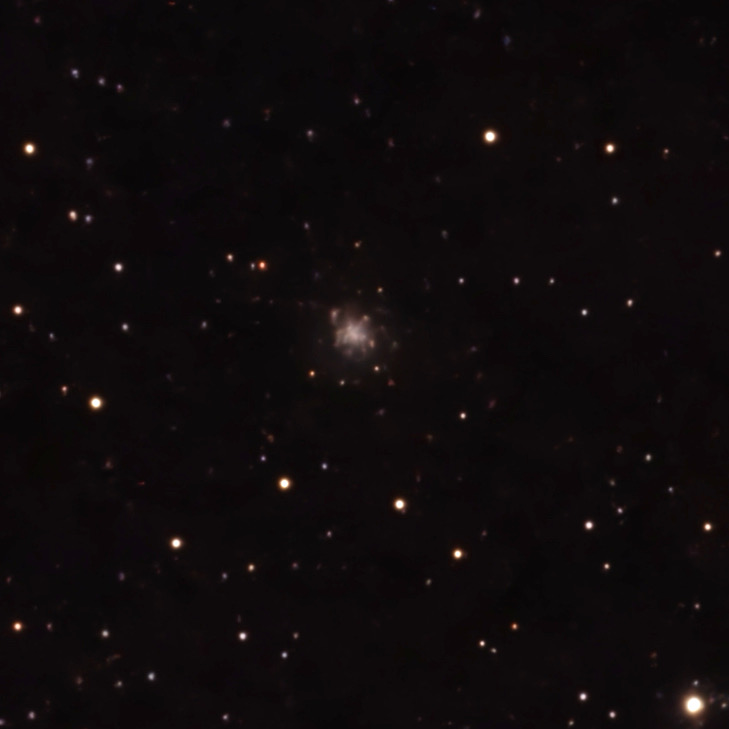
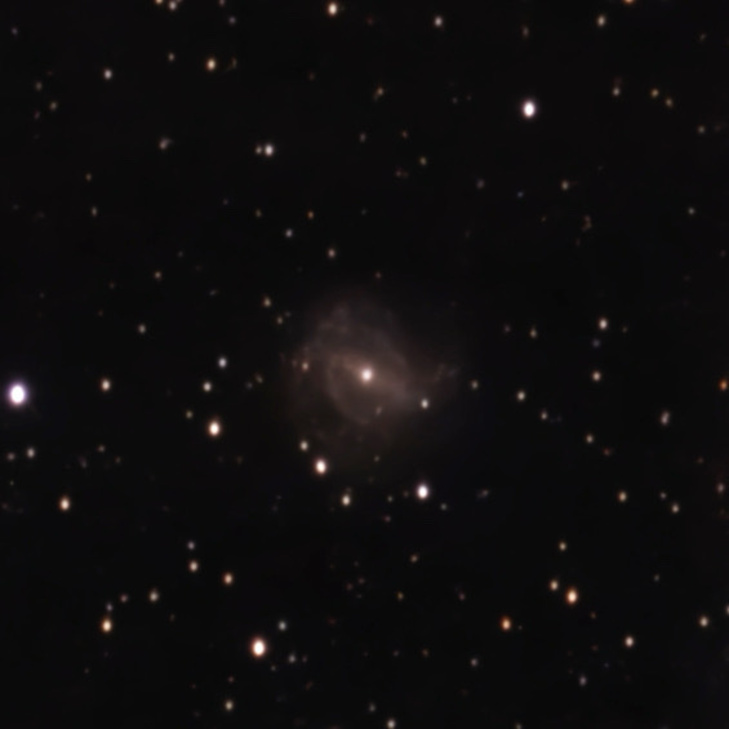
Add M83 Southern Pinwheel Galaxy

diff --git a/messier_catalog.html b/messier_catalog.html
@@ -446,7 +446,7 @@
         <div class="messier-card captured">
             <h3>M42 - Orion Nebula</h3>
             <div class="image-container">
-                <img src="targets/nebulae/m42/m42_2026-02-17.jpg" alt="M42 - Orion Nebula" onclick="openModal('targets/nebulae/m42/m42_2026-02-17.jpg')">
+                <img src="targets/nebulae/m42/m42_2026-01-21.png" alt="M42 - Orion Nebula" onclick="openModal('targets/nebulae/m42/m42_2026-01-21.png')">
             </div>
             <div class="status">✓ Captured</div>
         </div>
@@ -908,7 +908,7 @@
         <div class="messier-card captured">
             <h3>M108 - Spiral Galaxy</h3>
             <div class="image-container">
-                <img src="targets/galaxies/m108/m108_2026-04-18.jpg" alt="M108 - Spiral Galaxy" onclick="openModal('targets/galaxies/m108/m108_2026-04-18.jpg')">
+                <img src="targets/galaxies/m108/m108_2026-04-18b.jpg" alt="M108 - Spiral Galaxy" onclick="openModal('targets/galaxies/m108/m108_2026-04-18b.jpg')">
             </div>
             <div class="status">✓ Captured</div>
         </div>

diff --git a/messier_ra_chart.html b/messier_ra_chart.html
@@ -476,7 +476,7 @@
                 <div class="messier-number">M42</div>
                 <div class="messier-name">Orion Nebula</div>
                 <div class="coords">RA 5h35m, Dec -5°</div>
-                <img src="targets/nebulae/m42/m42_2026-02-17.jpg" class="thumbnail" alt="M42" onclick="openModal('targets/nebulae/m42/m42_2026-02-17.jpg')" style="cursor: pointer;">
+                <img src="targets/nebulae/m42/m42_2026-01-21.png" class="thumbnail" alt="M42" onclick="openModal('targets/nebulae/m42/m42_2026-01-21.png')" style="cursor: pointer;">
             </div>
             <div class="messier-item captured">
                 <div class="messier-number">M79</div>
